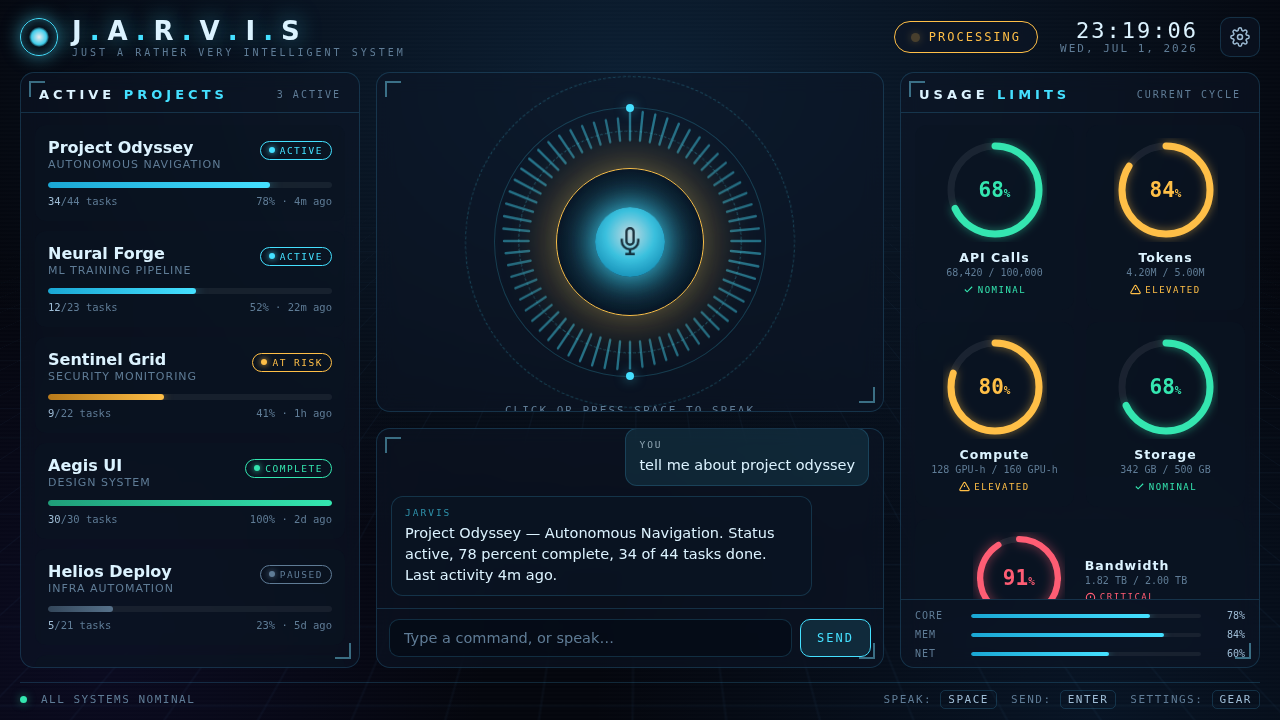
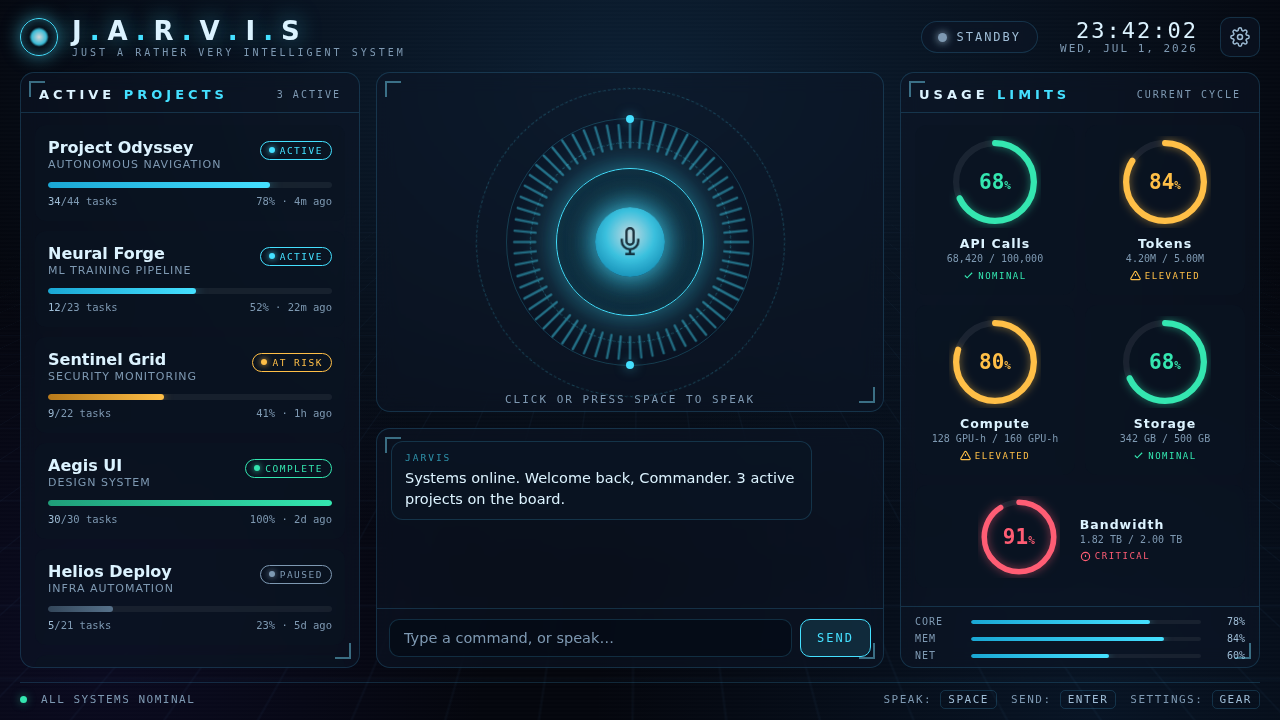
Fix 19 issues from adversarial review
Speech / Web Audio lifecycle:
- Reset status when TTS is unavailable so the chip can't stick on "Processing".
- Add utterance onerror recovery (error/interrupt fire instead of onend).
- Release mic + AudioContext on every recognition end/error (was leaking a
  live mic stream after the first voice turn).
- Guard the getUserMedia race so a stream resolving after stop is torn down.
- Gate hands-free re-arm on not-thinking/not-speaking and route it through
  startListening(), preventing the mic from transcribing JARVIS's own reply.
- Latch on permission-denied so hands-free doesn't loop-restart into the wall.

Accessibility:
- Space push-to-talk no longer hijacks focused buttons/inputs.
- Settings modal: focus first field on open, trap Tab, restore focus on close.
- Freeze the canvas visualizer idle motion under prefers-reduced-motion.
- Lighten --ink-dim to meet WCAG AA on small text.
- Restore pinch-zoom (drop maximum-scale); add aria-live to transcript,
  status, and toast; remove invalid role=button/nested-button on the reactor.

Layout:
- Settings modal caps at viewport height and scrolls its body on short screens.
- Reactor scales with viewport height so it isn't clipped on short desktops.

Logic / robustness:
- "How many projects" no longer shadowed by the status-report intent.
- Don't clear the composer if a reply is still processing (input was lost).
- Whitelist project status and coerce numeric fields before innerHTML.
[…]

diff --git a/app.js b/app.js
@@ -57,7 +57,13 @@
     const wrap = $('#projects');
     wrap.innerHTML = '';
     data.projects.forEach(p => {
-      const fillClass = p.status === 'warning' ? 'warning' : p.status === 'complete' ? 'complete' : p.status === 'paused' ? 'paused' : '';
+      // Whitelist status against known keys and coerce numerics — every field is
+      // treated as untrusted since data.js documents storage as the editable source.
+      const status = STATUS_TEXT[p.status] ? p.status : 'active';
+      const fillClass = status === 'warning' ? 'warning' : status === 'complete' ? 'complete' : status === 'paused' ? 'paused' : '';
+      const done = Number(p.tasksDone) || 0;
+      const total = Number(p.tasksTotal) || 0;
+      const progress = Math.max(0, Math.min(100, Number(p.progress) || 0));
       const el = document.createElement('div');
       el.className = 'project';
       el.innerHTML = `
@@ -66,16 +72,16 @@
             <div class="project-name">${esc(p.name)}</div>
             <div class="project-domain">${esc(p.domain)}</div>
           </div>
-          <span class="pill ${p.status}"><span class="pdot"></span>${STATUS_TEXT[p.status] || p.status}</span>
+          <span class="pill ${status}"><span class="pdot"></span>${STATUS_TEXT[status]}</span>
         </div>
         <div class="pbar"><div class="pbar-fill ${fillClass}" style="width:0%"></div></div>
         <div class="project-foot">
-          <span><b>${p.tasksDone}</b>/${p.tasksTotal} tasks</span>
-          <span>${p.progress}% · ${esc(p.updated)}</span>
+          <span><b>${done}</b>/${total} tasks</span>
+          <span>${progress}% · ${esc(p.updated)}</span>
         </div>`;
       wrap.appendChild(el);
       // animate the bar in
-      requestAnimationFrame(() => { el.querySelector('.pbar-fill').style.width = p.progress + '%'; });
+      requestAnimationFrame(() => { el.querySelector('.pbar-fill').style.width = progress + '%'; });
     });
     $('#projActive').textContent = data.projects.filter(p => p.status === 'active').length + ' ACTIVE';
   }
@@ -155,17 +161,23 @@
     speechSynthesis.onvoiceschanged = pickVoice;
   }
 
+  // Returns true if speech was dispatched (so callers know whether the utterance
+  // callbacks will drive the status back to idle, or they must do it themselves).
   function speak(text) {
-    if (!config.voiceOut || !window.speechSynthesis) return;
+    if (!config.voiceOut || !window.speechSynthesis) return false;
     try {
       speechSynthesis.cancel();
       const u = new SpeechSynthesisUtterance(text);
       if (preferredVoice) u.voice = preferredVoice;
       u.rate = 1.02; u.pitch = 0.9; u.volume = 1;
       u.onstart = () => setStatus('speaking');
-      u.onend = () => setStatus(recognizing ? 'listening' : 'idle');
+      // onend AND onerror both recover status (error/interrupt fire instead of end).
+      const done = () => { setStatus(recognizing ? 'listening' : 'idle'); maybeAutoListen(); };
+      u.onend = done;
+      u.onerror = done;
       speechSynthesis.speak(u);
-    } catch (e) { /* ignore */ }
+      return true;
+    } catch (e) { return false; }
   }
 
   // ======================= CONVERSATION FLOW =======================
@@ -183,8 +195,10 @@
     }
     addMessage('jarvis', reply.text);
     handling = false;
-    speak(reply.text);
-    if (!config.voiceOut) setStatus(recognizing ? 'listening' : 'idle');
+    const spoke = speak(reply.text);
+    // If nothing will be spoken (voice off / no synthesis), we must reset the
+    // status ourselves — otherwise the chip stays stuck on "Processing".
+    if (!spoke) { setStatus(recognizing ? 'listening' : 'idle'); maybeAutoListen(); }
   }
 
   // ======================= SPEECH RECOGNITION =======================
@@ -192,6 +206,21 @@
   let recognition = null;
   let recognizing = false;
   let manualStop = false;
+  let sttFatal = false; // set on a permission-wall error so we don't auto-restart into it
+
+  // Re-arm the mic for hands-free mode — but only once JARVIS is fully idle
+  // (not thinking, not speaking), so the open mic never transcribes its own reply.
+  function maybeAutoListen() {
+    if (!recognition || !config.autoListen || manualStop || sttFatal) return;
+    if (handling || recognizing) return;
+    if (window.speechSynthesis && speechSynthesis.speaking) return;
+    setTimeout(() => {
+      if (config.autoListen && !manualStop && !sttFatal && !handling && !recognizing &&
+          !(window.speechSynthesis && speechSynthesis.speaking)) {
+        startListening();
+      }
+    }, 500);
+  }
 
   if (SR) {
     recognition = new SR();
@@ -203,20 +232,23 @@
     recognition.onstart = () => { recognizing = true; setStatus('listening'); };
     recognition.onerror = (e) => {
       recognizing = false;
+      stopViz(); // release the mic/AudioContext on any recognition failure
       if (e.error === 'not-allowed' || e.error === 'service-not-allowed') {
+        sttFatal = true; // a permission wall — never auto-restart into it
         toast('Microphone blocked. Allow mic access, or type below.', true);
       } else if (e.error === 'no-speech') {
         toast('No speech detected.');
       }
-      setStatus('idle');
+      if (!handling) setStatus('idle');
     };
     recognition.onend = () => {
       recognizing = false;
-      if (!handling) setStatus('idle');
-      // auto-restart for hands-free mode unless the user turned it off
-      if (config.autoListen && !manualStop) {
-        setTimeout(() => { try { recognition.start(); } catch (e) {} }, 400);
-      }
+      stopViz(); // a listening turn ended — free the mic instead of leaving it lit
+      if (!handling && !(window.speechSynthesis && speechSynthesis.speaking)) setStatus('idle');
+      // Hands-free re-arm is deferred to maybeAutoListen(): it waits until JARVIS
+      // is done thinking/speaking, and it routes through startListening() (which
+      // cancels TTS and restarts the visualizer) rather than a raw restart.
+      maybeAutoListen();
     };
     recognition.onresult = (event) => {
       let finalText = '';
@@ -231,6 +263,7 @@
     if (!recognition) { toast('Voice input not supported in this browser — type below.', true); $('#textInput').focus(); return; }
     if (recognizing) return;
     manualStop = false;
+    sttFatal = false; // explicit user action clears any prior permission-wall latch
     if (window.speechSynthesis) speechSynthesis.cancel();
     startViz(); // begin mic-driven visualizer
     try { recognition.start(); } catch (e) { /* already started */ }
@@ -246,7 +279,8 @@
   const canvas = $('#viz');
   const ctx = canvas.getContext('2d');
   let audioCtx = null, analyser = null, micStream = null, freqData = null;
-  let vizRAF = null, vizPhase = 0;
+  let vizRAF = null, vizPhase = 0, vizToken = 0;
+  const reduceMotion = !!(window.matchMedia && window.matchMedia('(prefers-reduced-motion: reduce)').matches);
 
   function sizeCanvas() {
     const dpr = Math.min(window.devicePixelRatio || 1, 2);
@@ -259,8 +293,13 @@
   async function startViz() {
     if (analyser) return;
     if (!(navigator.mediaDevices && navigator.mediaDevices.getUserMedia && (window.AudioContext || window.webkitAudioContext))) return;
+    const token = ++vizToken;
     try {
-      micStream = await navigator.mediaDevices.getUserMedia({ audio: true });
+      const stream = await navigator.mediaDevices.getUserMedia({ audio: true });
+      // If the session was cancelled while getUserMedia was resolving, don't turn
+      // the mic on after the fact — tear the stream straight back down.
+      if (token !== vizToken) { stream.getTracks().forEach(t => t.stop()); return; }
+      micStream = stream;
       audioCtx = new (window.AudioContext || window.webkitAudioContext)();
       const src = audioCtx.createMediaStreamSource(micStream);
       analyser = audioCtx.createAnalyser();
@@ -273,6 +312,7 @@
     }
   }
   function stopViz() {
+    vizToken++; // invalidate any in-flight startViz() so its stream is discarded
     if (micStream) { micStream.getTracks().forEach(t => t.stop()); micStream = null; }
     if (audioCtx) { audioCtx.close().catch(() => {}); audioCtx = null; }
     analyser = null; freqData = null;
@@ -285,7 +325,9 @@
     ctx.clearRect(0, 0, w, h);
     const cx = w / 2, cy = h / 2;
     const inner = Math.min(w, h) * 0.30;
-    vizPhase += 0.02;
+    // Under prefers-reduced-motion, freeze the idle "breathing" (no perpetual
+    // motion). Live mic amplitude during active listening is user-initiated.
+    if (!reduceMotion) vizPhase += 0.02;
 
     const speaking = $('#reactor').classList.contains('speaking');
     const accent = speaking ? '52,230,176' : '69,224,255';
@@ -318,14 +360,33 @@
   }
 
   // ======================= SETTINGS MODAL =======================
+  let lastFocused = null;
   function openSettings() {
+    lastFocused = document.activeElement;
     $('#apiKeyInput').value = config.apiKey || '';
     $('#modelInput').value = config.model || 'claude-opus-4-8';
     $('#voiceOutToggle').checked = !!config.voiceOut;
     $('#autoListenToggle').checked = !!config.autoListen;
     $('#settingsModal').classList.add('open');
+    // move focus into the dialog for keyboard/screen-reader users
+    setTimeout(() => { try { $('#apiKeyInput').focus(); } catch (e) {} }, 30);
   }
-  function closeSettings() { $('#settingsModal').classList.remove('open'); }
+  function closeSettings() {
+    $('#settingsModal').classList.remove('open');
+    if (lastFocused && lastFocused.focus) { try { lastFocused.focus(); } catch (e) {} }
+  }
+  // Trap Tab within the open modal so focus can't wander to the HUD behind it.
+  $('#settingsModal').addEventListener('keydown', (e) => {
+    if (e.key !== 'Tab') return;
+    const modal = document.querySelector('#settingsModal .modal');
+    const focusables = Array.from(modal.querySelectorAll(
+      'button, [href], input, select, textarea, [tabindex]:not([tabindex="-1"])'
+    )).filter(el => !el.disabled && el.offsetParent !== null);
+    if (!focusables.length) return;
+    const first = focusables[0], last = focusables[focusables.length - 1];
+    if (e.shiftKey && document.activeElement === first) { e.preventDefault(); last.focus(); }
+    else if (!e.shiftKey && document.activeElement === last) { e.preventDefault(); first.focus(); }
+  });
   function saveSettings() {
     config.apiKey = $('#apiKeyInput').value.trim();
     config.model = $('#modelInput').value.trim() || 'claude-opus-4-8';
@@ -362,6 +423,9 @@
     const el = $('#textInput');
     const v = el.value.trim();
     if (!v) return;
+    // Don't wipe the box if we can't accept the message yet — keep it so the
+    // user isn't left wondering where their text went.
+    if (handling) { toast('One moment — still processing your last request…'); return; }
     el.value = '';
     handleInput(v);
   }
@@ -372,11 +436,17 @@
   $('#saveSettings').addEventListener('click', saveSettings);
   $('#settingsModal').addEventListener('click', (e) => { if (e.target.id === 'settingsModal') closeSettings(); });
 
-  // space bar = push-to-talk (when not typing)
+  // Space bar = push-to-talk — but never when a control (button/link/input) is
+  // focused, so Space keeps activating buttons and typing spaces as usual.
   document.addEventListener('keydown', (e) => {
-    if (e.code === 'Space' && document.activeElement.tagName !== 'INPUT' && !$('#settingsModal').classList.contains('open')) {
-      e.preventDefault();
-      if (!recognizing) startListening();
+    if (e.code === 'Space') {
+      const ae = document.activeElement;
+      const onControl = ae && ae.closest && ae.closest('button, a, input, textarea, select, [role="button"], [contenteditable="true"]');
+      const modalOpen = $('#settingsModal').classList.contains('open');
+      if (!onControl && !modalOpen) {
+        e.preventDefault();
+        recognizing ? stopListening() : startListening();
+      }
     }
     if (e.key === 'Escape') closeSettings();
   });

diff --git a/index.html b/index.html
@@ -2,7 +2,7 @@
 <html lang="en">
 <head>
   <meta charset="UTF-8" />
-  <meta name="viewport" content="width=device-width, initial-scale=1.0, maximum-scale=1.0" />
+  <meta name="viewport" content="width=device-width, initial-scale=1.0" />
   <title>J.A.R.V.I.S — Command Interface</title>
   <meta name="description" content="A futuristic voice-driven dashboard for your projects and usage limits." />
   <link rel="preconnect" href="https://fonts.googleapis.com" />
@@ -25,7 +25,7 @@
         </div>
       </div>
       <div class="topbar-right">
-        <div class="status-chip" id="statusChip" data-state="idle">
+        <div class="status-chip" id="statusChip" data-state="idle" role="status" aria-live="polite">
           <span class="dot"></span><span id="statusLabel">Standby</span>
         </div>
         <div class="clock">
@@ -52,8 +52,8 @@
       <!-- CENTER: reactor + conversation -->
       <section class="center">
         <div class="panel reactor-panel">
-          <div class="reactor" id="reactor" role="button" tabindex="0" aria-label="Talk to JARVIS">
-            <canvas class="reactor-viz" id="viz"></canvas>
+          <div class="reactor" id="reactor">
+            <canvas class="reactor-viz" id="viz" aria-hidden="true"></canvas>
             <div class="ring r1"></div>
             <div class="ring r2"></div>
             <div class="ring r3"></div>
@@ -69,7 +69,7 @@
         </div>
 
         <div class="panel convo-panel">
-          <div class="panel-body"><div class="convo" id="convo"></div></div>
+          <div class="panel-body"><div class="convo" id="convo" role="log" aria-live="polite" aria-label="Conversation with JARVIS"></div></div>
           <div class="composer">
             <input type="text" id="textInput" placeholder="Type a command, or speak…" autocomplete="off" />
             <button id="sendBtn">SEND</button>
@@ -156,7 +156,7 @@
     </div>
   </div>
 
-  <div class="toast" id="toast"></div>
+  <div class="toast" id="toast" role="status" aria-live="polite"></div>
 
   <script src="data.js"></script>
   <script src="jarvis.js"></script>

diff --git a/styles.css b/styles.css
@@ -15,7 +15,7 @@
   /* ink */
   --ink:      #dcf3ff;
   --ink-2:    #9fbdd6;
-  --ink-dim:  #5f7c96;
+  --ink-dim:  #7e99b2; /* lightened from #5f7c96 to meet WCAG AA on small text */
 
   /* accent (Jarvis cyan) */
   --accent:      #45e0ff;
@@ -287,7 +287,7 @@ html, body {
 }
 .reactor {
   position: relative;
-  width: 340px; height: 340px;
+  width: min(340px, 44vh); height: min(340px, 44vh); /* shrink on short windows to avoid clipping */
   display: grid; place-items: center;
   cursor: pointer;
   user-select: none;
@@ -423,19 +423,24 @@ html, body {
   background: rgba(2, 6, 14, 0.72);
   backdrop-filter: blur(4px);
   display: none; place-items: center;
+  padding: 20px;
+  overflow-y: auto;
 }
 .modal-scrim.open { display: grid; animation: fadeUp .2s ease; }
 .modal {
   width: min(520px, 92vw);
+  max-height: calc(100vh - 40px); /* never taller than the viewport */
+  display: flex;
+  flex-direction: column;
   background: linear-gradient(180deg, rgba(14,26,44,0.96), rgba(8,16,28,0.96));
   border: 1px solid var(--panel-edge-hi);
   border-radius: 16px;
   box-shadow: 0 0 60px rgba(69,224,255,0.15);
   overflow: hidden;
 }
-.modal-head { display: flex; align-items: center; justify-content: space-between; padding: 18px 20px; border-bottom: 1px solid var(--panel-edge); }
+.modal-head { display: flex; align-items: center; justify-content: space-between; padding: 18px 20px; border-bottom: 1px solid var(--panel-edge); flex: none; }
 .modal-head h2 { margin: 0; font-family: var(--font-display); font-size: 16px; letter-spacing: 3px; }
-.modal-body { padding: 18px 20px 22px; }
+.modal-body { padding: 18px 20px 22px; overflow-y: auto; } /* scrolls on short screens so Save/Cancel stay reachable */
 .field { margin-bottom: 18px; }
 .field label { display: block; font-family: var(--font-mono); font-size: 11px; letter-spacing: 1.5px; text-transform: uppercase; color: var(--ink-2); margin-bottom: 7px; }
 .field input {

diff --git a/jarvis.js b/jarvis.js
@@ -137,6 +137,12 @@ class JarvisBrain {
       return { confident: true, text: `${flagged.length} ${flagged.length === 1 ? 'project needs' : 'projects need'} attention: ${desc}.` };
     }
 
+    // "how many projects" — checked before the status report so the 'projects'
+    // keyword there doesn't swallow the count query.
+    if (t.includes('how many project')) {
+      return { confident: true, text: `You're tracking ${data.projects.length} projects.` };
+    }
+
     // status report / overview
     if (has('status', 'report', 'overview', 'projects', 'working on', 'summary', 'brief me', "what's going on", 'whats going on', 'update me', 'rundown')) {
       const active = data.projects.filter(p => p.status === 'active');
@@ -146,11 +152,6 @@ class JarvisBrain {
       let text = `Status report: ${data.projects.length} projects tracked, ${avg} percent average completion. ${active.length} active, ${complete.length} complete.`;
       if (flagged.length) text += ` ${flagged.length} need attention: ${flagged.map(p => p.name).join(', ')}.`;
       return { confident: true, text };
-    }
-
-    // "how many projects"
-    if (has('how many project')) {
-      return { confident: true, text: `You're tracking ${data.projects.length} projects.` };
     }
 
     return null; // no confident local match
